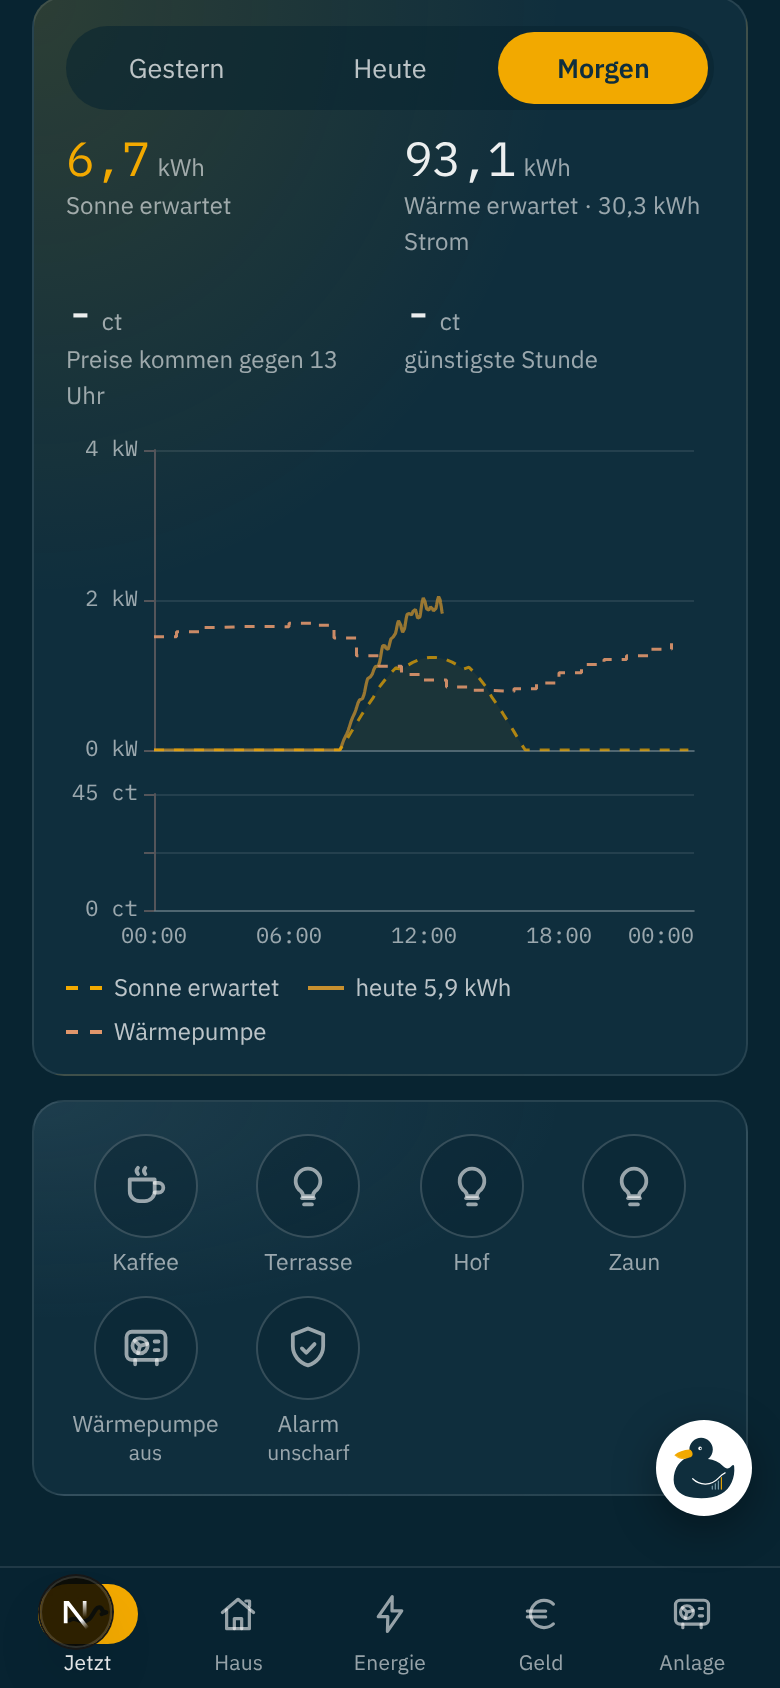
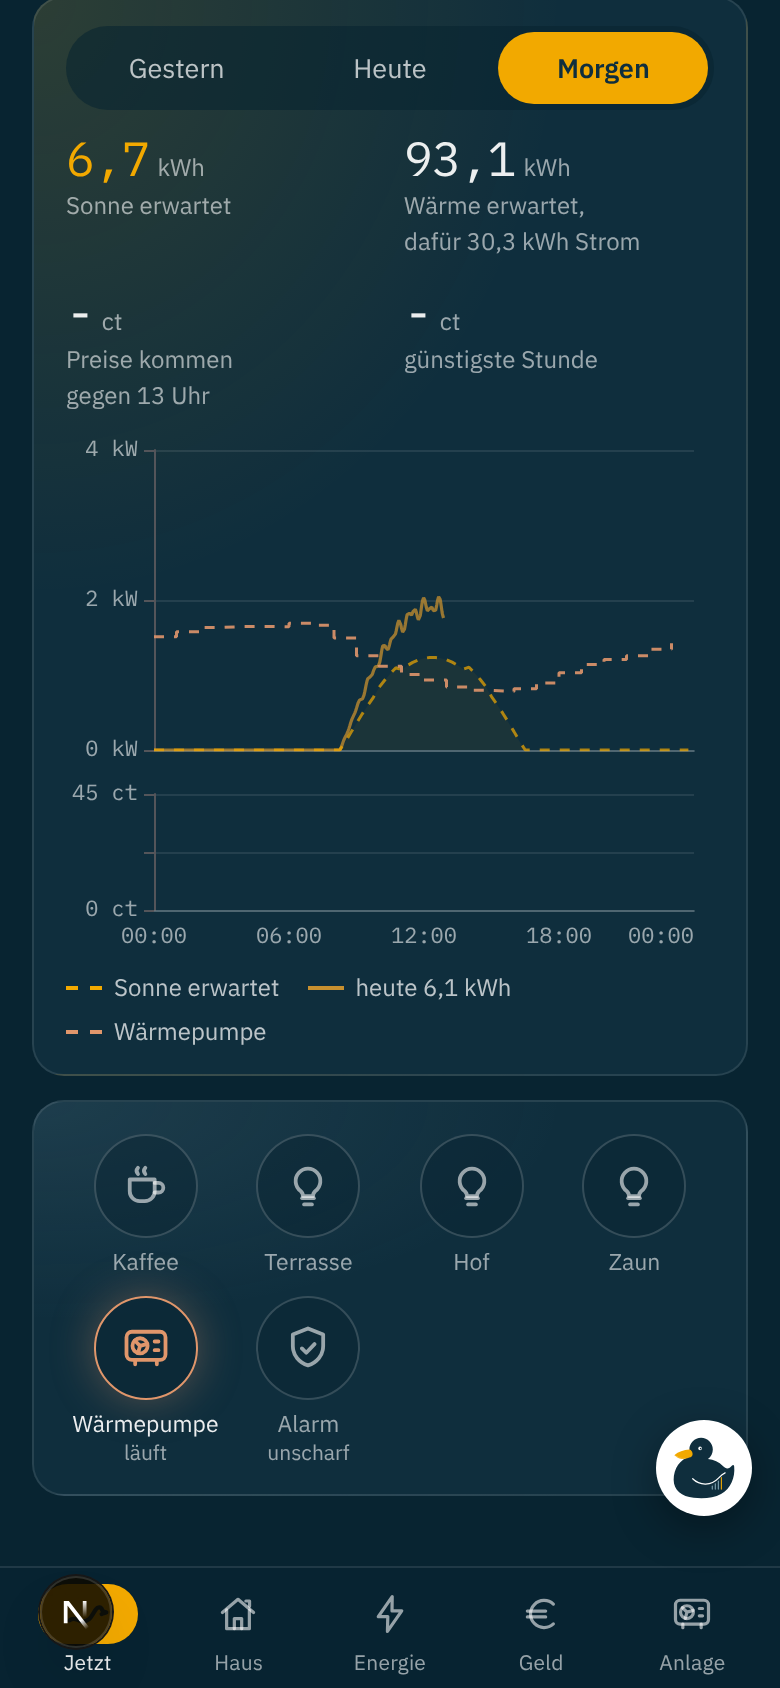
Tageszahlen: „Wärme erwartet, dafür … kWh Strom“ statt eines Punktes in der Mitte
Am Telefon bricht das Wort unter der Zahl jetzt um, und die zweite Zeile
begann mit dem Punkt aus „Wärme erwartet · 30,3 kWh Strom“. Dashboard und
App sagen jetzt dieselben Worte: im Dashboard in einer Zeile mit Komma, in
der App als Wort und Zusatz darunter. Dazu das Bild der Karte mit dem
letzten Stand.

Claude-Session: https://claude.ai/code/session_01U1XLnTNVcqfKWEYnf9U3ri

diff --git a/apps/web/src/components/home/tage.ts b/apps/web/src/components/home/tage.ts
@@ -104,7 +104,8 @@ export function kennzahlen(tag: Tag, summary: EnergySummary | null, preisJetzt: 
       {
         wert: de(morgen.waerme?.thermisch ?? null, 1),
         einheit: "kWh",
-        wort: morgen.waerme ? `Wärme erwartet · ${de(morgen.waerme.elektrisch, 1)} kWh Strom` : "Wärme erwartet",
+        // Ein Komma und „dafür“ statt eines Punktes in der Mitte: am Telefon bricht das Wort um, und die zweite Zeile begann mit dem Punkt.
+        wort: morgen.waerme ? `Wärme erwartet, dafür ${de(morgen.waerme.elektrisch, 1)} kWh Strom` : "Wärme erwartet",
       },
       { wert: de(mittel, 1), einheit: "ct", wort: ct.length ? "Strom im Mittel" : "Preise kommen gegen 13 Uhr" },
       {

diff --git a/apps/ios/DuckCurveKit/Sources/DuckCurveKit/Zustand/Tageskacheln.swift b/apps/ios/DuckCurveKit/Sources/DuckCurveKit/Zustand/Tageskacheln.swift
@@ -94,7 +94,8 @@ public enum Tageskacheln {
             Kennzahl(
                 wort: "Wärme erwartet", wert: Formate.zahl(m.waerme?.thermisch, stellen: 1),
                 einheit: "kWh",
-                dazu: m.waerme.map { "\(Formate.zahl($0.elektrisch, stellen: 1)) kWh Strom" }),
+                // Dieselben Worte wie im Dashboard (`tage.ts`: „Wärme erwartet, dafür 30,3 kWh Strom“).
+                dazu: m.waerme.map { "dafür \(Formate.zahl($0.elektrisch, stellen: 1)) kWh Strom" }),
             Kennzahl(
                 wort: ct.isEmpty ? "Preise kommen gegen 13 Uhr" : "Strom im Mittel",
                 wert: Formate.zahl(mittel, stellen: 1), einheit: "ct"),

diff --git a/apps/ios/DuckCurveHome/Seiten/Jetzt/JetztSeite.swift b/apps/ios/DuckCurveHome/Seiten/Jetzt/JetztSeite.swift
@@ -166,7 +166,7 @@ struct JetztSeite: View {
                         Text(k.wort)
                             .font(Schrift.sans(12))
                             .foregroundStyle(Farbe.text2)
-                        // **Der Zusatz fehlte an der Wand** (`tage.ts:107`: „Wärme erwartet ·
+                        // **Der Zusatz fehlte an der Wand** (`tage.ts`: „Wärme erwartet, dafür
                         // 4,2 kWh Strom“). Die Vorlage hat die Angabe im Wort selbst; der Kern
                         // fuellt sie als eigenes Feld, und das Telefon zeigt sie laengst. Hier
                         // stand nur die thermische Zahl, und wie viel Strom sie kostet, stand

diff --git a/apps/ios/DuckCurveKit/Tests/DuckCurveKitTests/TageskachelnTests.swift b/apps/ios/DuckCurveKit/Tests/DuckCurveKitTests/TageskachelnTests.swift
@@ -92,7 +92,7 @@ final class TageskachelnTests: XCTestCase {
         XCTAssertEqual(k[0].wert, "6,3")
         XCTAssertEqual(k[1].wort, "Wärme erwartet")
         XCTAssertEqual(k[1].wert, "28,4")
-        XCTAssertEqual(k[1].dazu, "8,1 kWh Strom")
+        XCTAssertEqual(k[1].dazu, "dafür 8,1 kWh Strom")
         XCTAssertEqual(k[2].wort, "Strom im Mittel")
         XCTAssertEqual(k[2].wert, "19,0", "(18 - 2,5 + 41,5) / 3")
         XCTAssertEqual(k[3].wort, "günstigste Stunde ab 13:00")

diff --git a/apps/web/src/components/home/tage.test.ts b/apps/web/src/components/home/tage.test.ts
@@ -88,7 +88,7 @@ describe("kennzahlen", () => {
       preise: [{ ts: start + 13 * 3600_000, ct: 9.2 }, { ts: start, ct: 30 }],
     });
     expect(k[0]).toMatchObject({ wert: "18,3", wort: "Sonne erwartet" });
-    expect(k[1]!.wort).toBe("Wärme erwartet · 12,8 kWh Strom");
+    expect(k[1]!.wort).toBe("Wärme erwartet, dafür 12,8 kWh Strom");
     expect(k[2]).toMatchObject({ wert: "19,6", wort: "Strom im Mittel" });
     expect(k[3]!.wort).toBe("günstigste Stunde ab 13:00");
   });
